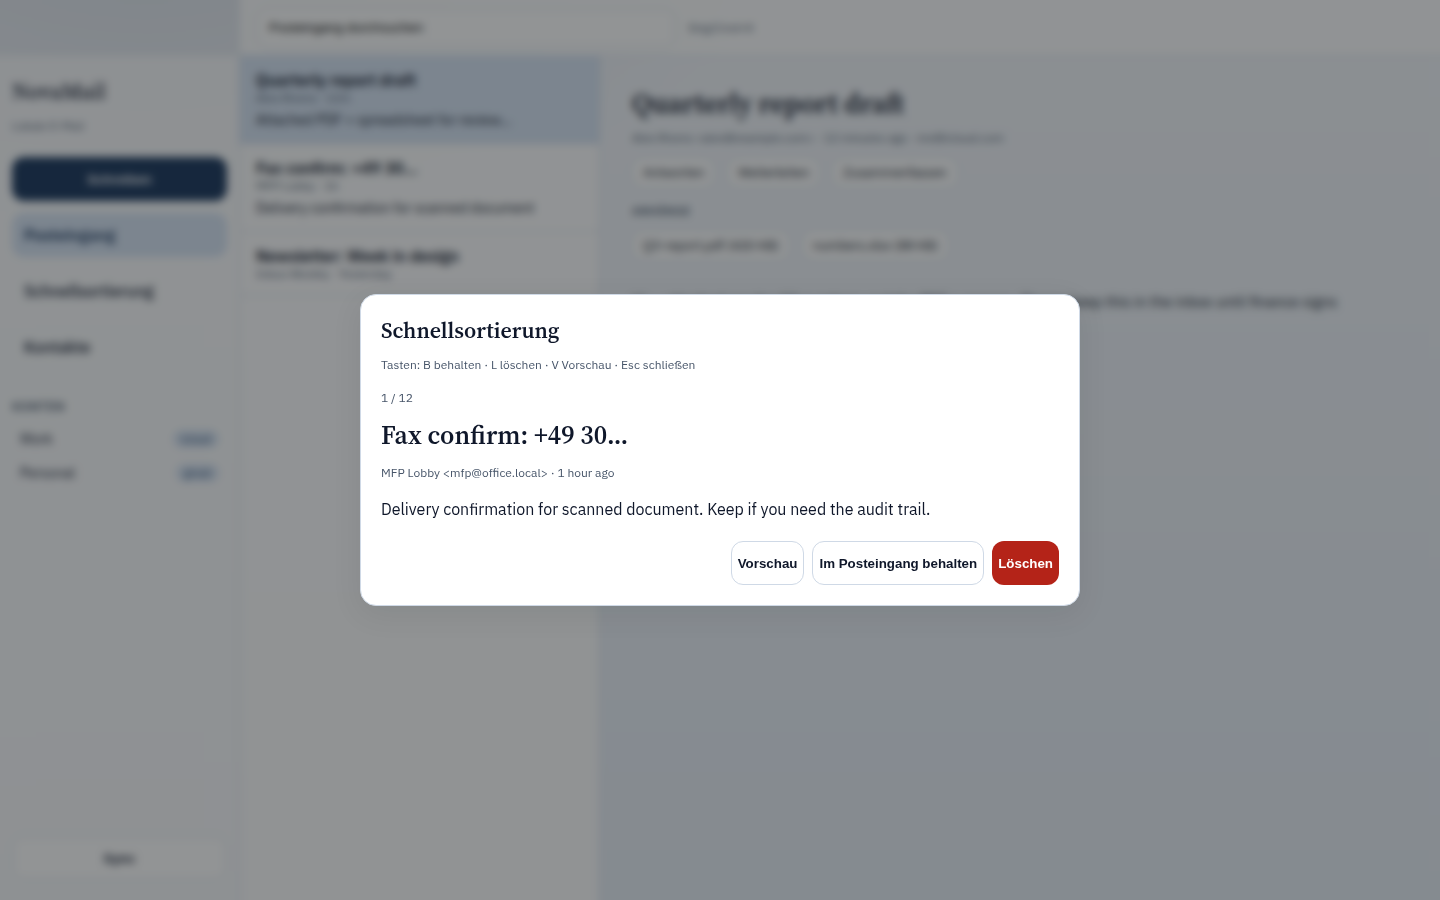
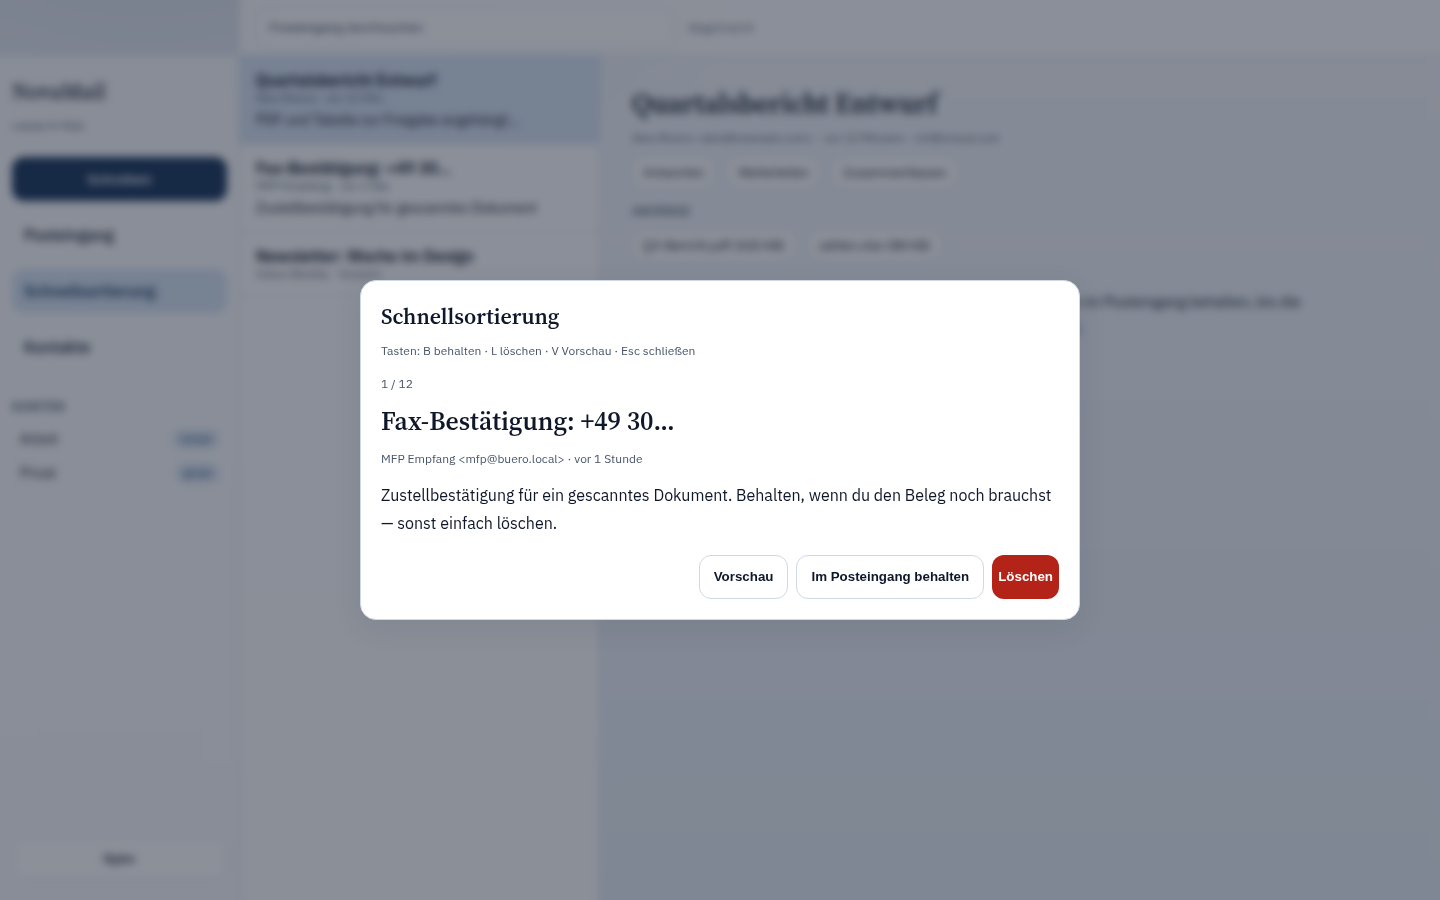
docs: fix Quick Sort screenshot to German navy UI
Replace remaining English demo content in screenshot previews and
recapture Quick Sort, inbox, and contacts images.

diff --git a/docs/screenshots/preview.html b/docs/screenshots/preview.html
@@ -24,7 +24,7 @@
         --nova-radius-sm: 8px;
         --nova-radius-md: 12px;
         --nova-radius-lg: 16px;
-        --nova-shadow: 0 8px 30px rgba(18, 20, 23, 0.08);
+        --nova-shadow: 0 8px 30px rgba(15, 23, 42, 0.08);
         --nova-font-sans: "IBM Plex Sans", "Segoe UI", sans-serif;
         --nova-font-display: "Source Serif 4", Georgia, serif;
       }
@@ -34,10 +34,10 @@
         font-family: var(--nova-font-sans);
         color: var(--nova-ink);
         background:
-          radial-gradient(1200px 600px at 10% -10%, color-mix(in srgb, var(--nova-accent) 12%, transparent), transparent 55%),
+          radial-gradient(1200px 600px at 10% -10%, color-mix(in srgb, var(--nova-accent) 14%, transparent), transparent 55%),
           linear-gradient(180deg, var(--nova-bg), var(--nova-bg-accent));
       }
-      .shell { display: flex; height: 100vh; }
+      .shell { display: flex; height: 100vh; padding-top: 56px; }
       .sidebar {
         width: 240px;
         border-right: 1px solid var(--nova-border);
@@ -62,9 +62,13 @@
       .nav {
         display: flex; align-items: center; gap: 10px;
         height: 44px; padding: 0 12px; border-radius: var(--nova-radius-md);
-        background: var(--nova-accent-soft); color: var(--nova-accent); font-weight: 600;
+        color: var(--nova-ink); font-weight: 500;
       }
-      .nav.ghost { background: transparent; color: var(--nova-ink); font-weight: 500; }
+      .nav.active {
+        background: var(--nova-accent-soft);
+        color: var(--nova-accent);
+        font-weight: 600;
+      }
       .main { flex: 1; display: flex; min-width: 0; }
       .list {
         width: 360px; border-right: 1px solid var(--nova-border);
@@ -82,7 +86,7 @@
         padding: 6px 10px; font-size: 13px; background: var(--nova-surface);
       }
       .overlay {
-        position: fixed; inset: 0; background: rgba(14,17,20,0.45);
+        position: fixed; inset: 0; background: rgba(15, 23, 42, 0.48);
         display: none; align-items: center; justify-content: center; padding: 24px;
         backdrop-filter: blur(4px);
       }
@@ -95,8 +99,8 @@
         box-shadow: var(--nova-shadow);
         padding: 20px;
       }
-      .actions { display: flex; gap: 8px; justify-content: flex-end; margin-top: 18px; }
-      .btn.secondary { background: var(--nova-surface); color: var(--nova-ink); border: 1px solid var(--nova-border); }
+      .actions { display: flex; gap: 8px; justify-content: flex-end; margin-top: 18px; flex-wrap: wrap; }
+      .btn.secondary { background: var(--nova-surface); color: var(--nova-ink); border: 1px solid var(--nova-border); padding: 0 14px; }
       .btn.danger { background: var(--nova-danger); }
       .topbar {
         position: absolute; left: 240px; right: 0; top: 0; height: 56px;
@@ -107,8 +111,8 @@
       .search {
         width: min(420px, 50vw); height: 40px; border-radius: var(--nova-radius-md);
         border: 1px solid var(--nova-border); padding: 0 12px; background: var(--nova-surface);
+        color: var(--nova-ink-muted);
       }
-      .shell { padding-top: 56px; }
       .account { display: flex; justify-content: space-between; padding: 8px; font-size: 14px; }
       .badge { font-size: 11px; background: var(--nova-accent-soft); color: var(--nova-accent); padding: 2px 8px; border-radius: 999px; }
     </style>
@@ -122,16 +126,16 @@
       <aside class="sidebar">
         <div>
           <p class="brand">NovaMail</p>
-            <p class="muted">Lokale E-Mail</p>
+          <p class="muted">Lokale E-Mail</p>
         </div>
         <button class="btn">Schreiben</button>
-        <div class="nav">Posteingang</div>
-        <div class="nav ghost">Schnellsortierung</div>
-        <div class="nav ghost">Kontakte</div>
+        <div class="nav active" id="nav-inbox">Posteingang</div>
+        <div class="nav" id="nav-triage">Schnellsortierung</div>
+        <div class="nav" id="nav-contacts">Kontakte</div>
         <div style="margin-top:18px">
           <p class="muted" style="margin:0 0 8px; text-transform:uppercase; letter-spacing:.08em; font-weight:600">Konten</p>
-          <div class="account"><span>Work</span><span class="badge">icloud</span></div>
-          <div class="account"><span>Personal</span><span class="badge">gmail</span></div>
+          <div class="account"><span>Arbeit</span><span class="badge">icloud</span></div>
+          <div class="account"><span>Privat</span><span class="badge">gmail</span></div>
         </div>
         <div style="margin-top:auto">
           <button class="btn secondary" style="width:100%">Sync</button>
@@ -140,23 +144,23 @@
       <div class="main">
         <div class="list">
           <div class="list-item active">
-            <strong>Quarterly report draft</strong>
-            <div class="muted">Alex Rivera · 12m</div>
-            <div style="margin-top:6px;font-size:14px">Attached PDF + spreadsheet for review…</div>
+            <strong>Quartalsbericht Entwurf</strong>
+            <div class="muted">Alex Rivera · vor 12 Min.</div>
+            <div style="margin-top:6px;font-size:14px">PDF und Tabelle zur Freigabe angehängt…</div>
           </div>
           <div class="list-item">
-            <strong>Fax confirm: +49 30…</strong>
-            <div class="muted">MFP Lobby · 1h</div>
-            <div style="margin-top:6px;font-size:14px">Delivery confirmation for scanned document</div>
+            <strong>Fax-Bestätigung: +49 30…</strong>
+            <div class="muted">MFP Empfang · vor 1 Std.</div>
+            <div style="margin-top:6px;font-size:14px">Zustellbestätigung für gescanntes Dokument</div>
           </div>
           <div class="list-item">
-            <strong>Newsletter: Week in design</strong>
-            <div class="muted">Inbox Weekly · Yesterday</div>
+            <strong>Newsletter: Woche im Design</strong>
+            <div class="muted">Inbox Weekly · Gestern</div>
           </div>
         </div>
         <article class="reading">
-          <h1 class="h2">Quarterly report draft</h1>
-          <div class="muted">Alex Rivera &lt;alex@example.com&gt; · 12 minutes ago · me@icloud.com</div>
+          <h1 class="h2">Quartalsbericht Entwurf</h1>
+          <div class="muted">Alex Rivera &lt;alex@example.com&gt; · vor 12 Minuten · ich@icloud.com</div>
           <div>
             <span class="chip">Antworten</span>
             <span class="chip">Weiterleiten</span>
@@ -164,12 +168,12 @@
           </div>
           <div style="margin-top:16px">
             <div class="muted" style="font-size:11px; text-transform:uppercase; letter-spacing:.08em; font-weight:600">Anhänge</div>
-            <span class="chip">Q3-report.pdf (420 KB)</span>
-            <span class="chip">numbers.xlsx (88 KB)</span>
+            <span class="chip">Q3-Bericht.pdf (420 KB)</span>
+            <span class="chip">zahlen.xlsx (88 KB)</span>
           </div>
           <p style="margin-top:28px; max-width:720px; line-height:1.7; font-size:15px">
-            Hi — attached are the Q3 numbers and the PDF summary. Please keep this in the inbox
-            until finance signs off. You can also triage with Quick Sort (hotkey T).
+            Hallo — anbei die Q3-Zahlen und die PDF-Zusammenfassung. Bitte im Posteingang
+            behalten, bis die Freigabe da ist. Mit der Schnellsortierung (Taste T) geht’s schneller.
           </p>
         </article>
       </div>
@@ -180,9 +184,12 @@
         <h2 class="h2" style="font-size:22px">Schnellsortierung</h2>
         <p class="muted">Tasten: B behalten · L löschen · V Vorschau · Esc schließen</p>
         <p class="muted" style="margin-top:18px">1 / 12</p>
-        <h3 class="h2" style="font-size:26px;margin-top:4px">Fax confirm: +49 30…</h3>
-        <p class="muted">MFP Lobby &lt;mfp@office.local&gt; · 1 hour ago</p>
-        <p style="margin-top:16px;line-height:1.7">Delivery confirmation for scanned document. Keep if you need the audit trail.</p>
+        <h3 class="h2" style="font-size:26px;margin-top:4px">Fax-Bestätigung: +49 30…</h3>
+        <p class="muted">MFP Empfang &lt;mfp@buero.local&gt; · vor 1 Stunde</p>
+        <p style="margin-top:16px;line-height:1.7">
+          Zustellbestätigung für ein gescanntes Dokument. Behalten, wenn du den Beleg noch brauchst —
+          sonst einfach löschen.
+        </p>
         <div class="actions">
           <button class="btn secondary">Vorschau</button>
           <button class="btn secondary">Im Posteingang behalten</button>
@@ -197,8 +204,8 @@
         <p class="muted">Lokale Kontakte mit eingebettetem CardDAV für MFP/Fax-Sync und optionalem LDAP-Import.</p>
         <p style="margin-top:16px"><strong>CardDAV-Server</strong></p>
         <p class="muted">Läuft unter http://127.0.0.1:8765/addressbooks/novamail/ · 3 Kontakte</p>
-        <p style="margin-top:16px"><strong>Fax Room</strong></p>
-        <p class="muted">fax@office.local · +49 30 123456</p>
+        <p style="margin-top:16px"><strong>Faxraum</strong></p>
+        <p class="muted">fax@buero.local · +49 30 123456</p>
         <div class="actions"><button class="btn">Fertig</button></div>
       </div>
     </div>
@@ -208,6 +215,9 @@
       const view = params.get("view") || "inbox";
       document.getElementById("triage").classList.toggle("show", view === "triage");
       document.getElementById("contacts").classList.toggle("show", view === "contacts");
+      document.getElementById("nav-inbox").classList.toggle("active", view === "inbox");
+      document.getElementById("nav-triage").classList.toggle("active", view === "triage");
+      document.getElementById("nav-contacts").classList.toggle("active", view === "contacts");
     </script>
   </body>
 </html>
